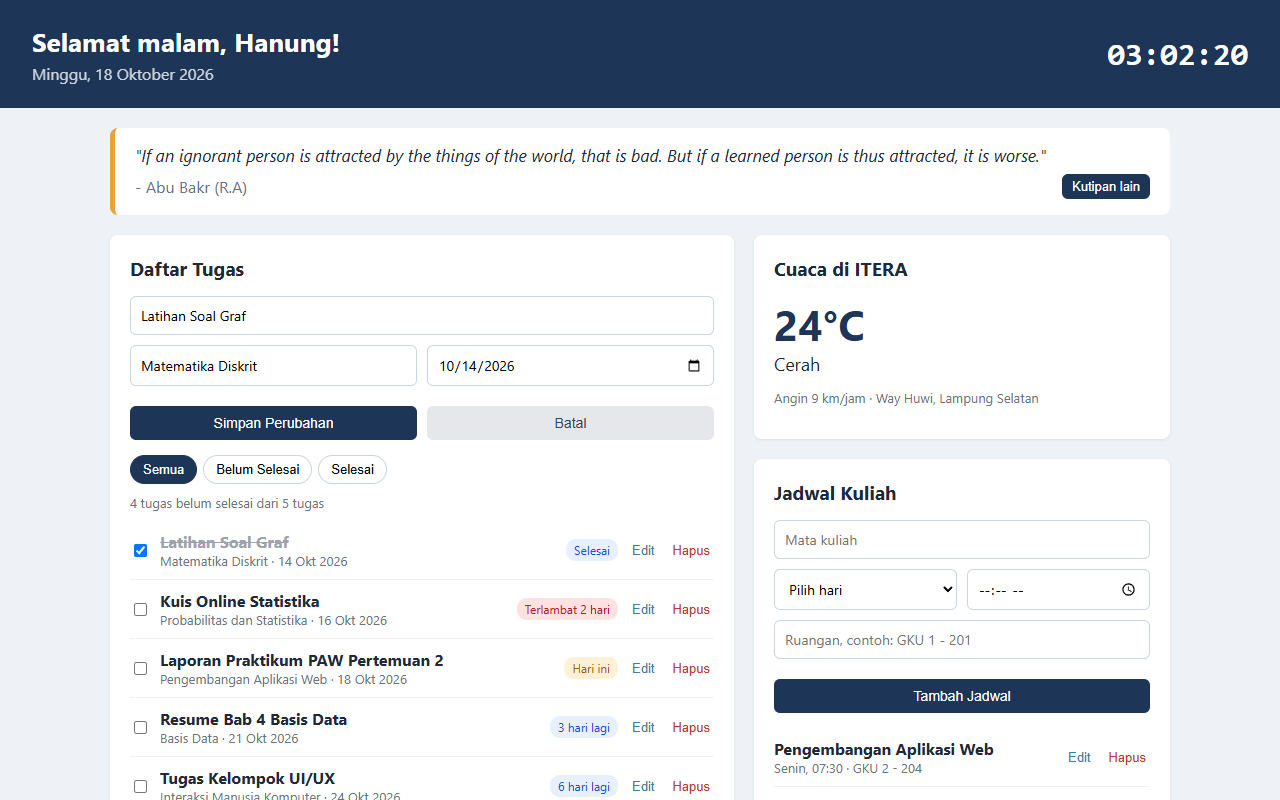
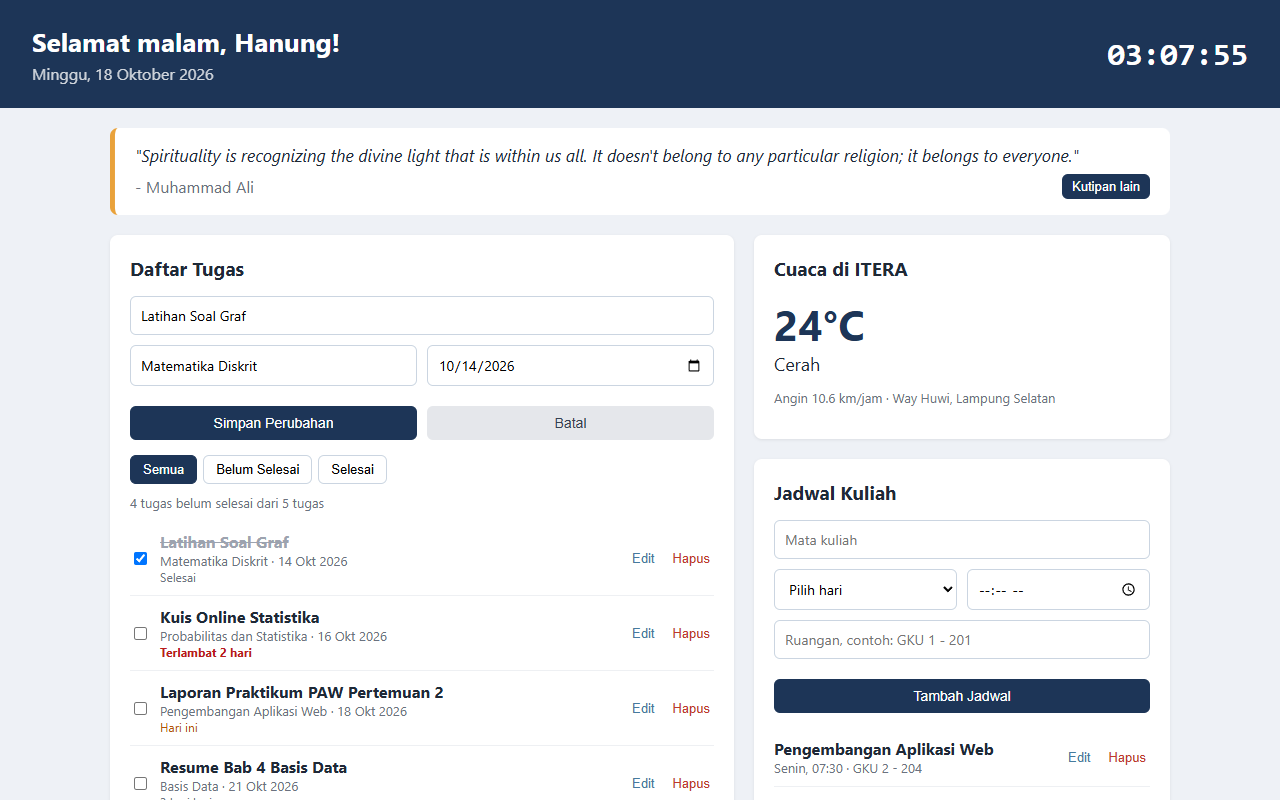
Ganti label status jadi teks biasa

diff --git a/HanungAkbarPramusintho_124140207_pertemuan2/app.js b/HanungAkbarPramusintho_124140207_pertemuan2/app.js
@@ -207,8 +207,8 @@ function tampilkanTugas() {
                     <div class="item-isi">
                         <strong>${tugas.judul}</strong>
                         <span>${tugas.matkul} &middot; ${formatTanggal(tugas.deadline)}</span>
+                        <small class="sisa-waktu ${kelasDeadline}">${tugas.labelDeadline()}</small>
                     </div>
-                    <span class="label-deadline ${kelasDeadline}">${tugas.labelDeadline()}</span>
                     <button class="tombol-teks" data-aksi="edit" data-id="${tugas.id}">Edit</button>
                     <button class="tombol-teks merah" data-aksi="hapus" data-id="${tugas.id}">Hapus</button>
                 </li>
@@ -231,9 +231,8 @@ function tampilkanJadwal() {
             <li class="item ${hari === hariIni ? "hari-ini" : ""}">
                 <div class="item-isi">
                     <strong>${matkul}</strong>
-                    <span>${hari}, ${jam} &middot; ${ruang}</span>
+                    <span>${hari}, ${jam} &middot; ${ruang} ${hari === hariIni ? "(hari ini)" : ""}</span>
                 </div>
-                ${hari === hariIni ? `<span class="label-deadline dekat">Hari ini</span>` : ""}
                 <button class="tombol-teks" data-aksi="edit" data-id="${id}">Edit</button>
                 <button class="tombol-teks merah" data-aksi="hapus" data-id="${id}">Hapus</button>
             </li>

diff --git a/HanungAkbarPramusintho_124140207_pertemuan2/style.css b/HanungAkbarPramusintho_124140207_pertemuan2/style.css
@@ -176,7 +176,7 @@ select:focus {
     padding: 6px 12px;
     border: 1px solid #cbd5e1;
     background-color: white;
-    border-radius: 20px;
+    border-radius: 6px;
     cursor: pointer;
     font-size: 13px;
 }
@@ -223,29 +223,22 @@ select:focus {
     color: #9ca3af;
 }
 
-.item.hari-ini {
-    background-color: #fff8eb;
-    padding-left: 8px;
-    border-radius: 6px;
+.item.hari-ini strong {
+    color: #1d3557;
 }
 
-.label-deadline {
+.sisa-waktu {
     font-size: 12px;
-    padding: 3px 8px;
-    border-radius: 10px;
-    background-color: #e8f0fe;
-    color: #1d4ed8;
-    white-space: nowrap;
+    color: #6b7280;
 }
 
-.label-deadline.dekat {
-    background-color: #fff1d6;
+.sisa-waktu.dekat {
     color: #b45309;
 }
 
-.label-deadline.lewat {
-    background-color: #fde2e1;
+.sisa-waktu.lewat {
     color: #b91c1c;
+    font-weight: bold;
 }
 
 .kosong {

diff --git a/HanungAkbarPramusintho_124140207_pertemuan3/src/components/BookItem/BookItem.css b/HanungAkbarPramusintho_124140207_pertemuan3/src/components/BookItem/BookItem.css
@@ -15,30 +15,17 @@
 }
 
 .book-item p {
-  margin: 2px 0 6px;
-  color: #666;
+  margin: 2px 0 0;
   font-size: 14px;
 }
 
-.status {
-  font-size: 12px;
-  padding: 3px 8px;
-  border-radius: 10px;
+.book-item .penulis {
+  color: #666;
 }
 
-.status-milik {
-  background: #e3f0ff;
-  color: #1c5fb8;
-}
-
-.status-baca {
-  background: #fff3d6;
-  color: #9a6400;
-}
-
-.status-beli {
-  background: #f1e6fa;
-  color: #7a3fa0;
+.book-item .status-buku {
+  color: #444;
+  font-size: 13px;
 }
 
 .book-item .aksi {

diff --git a/HanungAkbarPramusintho_124140207_pertemuan3/src/components/BookItem/BookItem.jsx b/HanungAkbarPramusintho_124140207_pertemuan3/src/components/BookItem/BookItem.jsx
@@ -13,8 +13,8 @@ function BookItem({ buku, onEdit, onHapus }) {
     <li className="book-item">
       <div>
         <h3>{buku.judul}</h3>
-        <p>{buku.penulis}</p>
-        <span className={`status status-${buku.status}`}>{labelStatus(buku.status)}</span>
+        <p className="penulis">{buku.penulis}</p>
+        <p className="status-buku">Status: {labelStatus(buku.status)}</p>
       </div>
       <div className="aksi">
         <button className="btn" onClick={() => onEdit(buku)}>

diff --git a/HanungAkbarPramusintho_124140207_pertemuan3/src/components/BookItem/BookItem.test.jsx b/HanungAkbarPramusintho_124140207_pertemuan3/src/components/BookItem/BookItem.test.jsx
@@ -13,7 +13,7 @@ describe('BookItem', () => {
 
     expect(screen.getByText('Laskar Pelangi')).toBeInTheDocument()
     expect(screen.getByText('Andrea Hirata')).toBeInTheDocument()
-    expect(screen.getByText('Dimiliki')).toBeInTheDocument()
+    expect(screen.getByText('Status: Dimiliki')).toBeInTheDocument()
   })
 
   test('memanggil onHapus dengan id buku setelah dikonfirmasi', () => {

diff --git a/HanungAkbarPramusintho_124140207_pertemuan2/README.md b/HanungAkbarPramusintho_124140207_pertemuan2/README.md
@@ -22,11 +22,11 @@ Buka `index.html` di browser. Butuh koneksi internet untuk data cuaca dan kutipa
   - Tambah, edit, dan hapus tugas
   - Centang tugas yang sudah selesai
   - Filter semua / belum selesai / selesai
-  - Diurutkan berdasarkan deadline, ada label sisa hari (warna kuning kalau mepet, merah kalau terlambat)
+  - Diurutkan berdasarkan deadline, ada keterangan sisa hari (teks kuning kalau mepet, merah kalau terlambat)
 - **Jadwal kuliah**
   - Tambah, edit, dan hapus jadwal
   - Diurutkan berdasarkan hari dan jam
-  - Jadwal hari ini diberi tanda
+  - Jadwal hari ini diberi keterangan "(hari ini)"
 - Semua data tugas dan jadwal disimpan di localStorage
 
 ## Screenshot
@@ -50,15 +50,15 @@ Semua kode JavaScript ada di `app.js`.
 | Fitur | Baris | Keterangan |
 | --- | --- | --- |
 | `const` | 1-5, 163-184 | konstanta URL, key localStorage, dan elemen DOM |
-| `let` | 117, 200, 374 | variabel yang nilainya berubah (hasil filter, kelas deadline, sapaan) |
-| Arrow function | 7, 10, 12, 61, 90, 125, 260, 284, 310 | `formatTanggal`, `duaDigit`, `keteranganCuaca`, callback map/filter/sort, event listener |
-| Template literals | 42, 45, 190, 204-215, 230-240, 379 | label deadline, info jumlah tugas, render list tugas dan jadwal |
+| `let` | 117, 200, 373 | variabel yang nilainya berubah (hasil filter, kelas deadline, sapaan) |
+| Arrow function | 7, 10, 12, 61, 90, 125, 259, 283, 309 | `formatTanggal`, `duaDigit`, `keteranganCuaca`, callback map/filter/sort, event listener |
+| Template literals | 42, 45, 190, 204-215, 230-239, 378 | label deadline, info jumlah tugas, render list tugas dan jadwal |
 | Class | 21 (`TaskItem`), 49 (`JadwalItem`), 59 (`DashboardApp`) | model data dan pengelola state aplikasi |
 | Destructuring di parameter | 22, 50, 230 | constructor class dan callback `map` jadwal |
-| Destructuring objek | 141, 154, 285, 399, 409 | ambil data dari response API dan `dataset` tombol |
+| Destructuring objek | 141, 154, 284, 398, 408 | ambil data dari response API dan `dataset` tombol |
 | Default parameter | 22, 50 | `id = Date.now()`, `selesai = false` |
 | Spread operator | 78, 84, 100, 106, 117, 129 | tambah/ubah data tanpa mengubah array lama (immutable) |
-| Async/await + fetch | 135-147, 149-160, 390, 407 | ambil data cuaca dan kutipan, pakai try/catch |
+| Async/await + fetch | 135-147, 149-160, 389, 406 | ambil data cuaca dan kutipan, pakai try/catch |
 | Method array modern | 61, 90, 95, 125, 198 | `map`, `filter`, `find`, `sort` |
 
 ## API yang Dipakai
